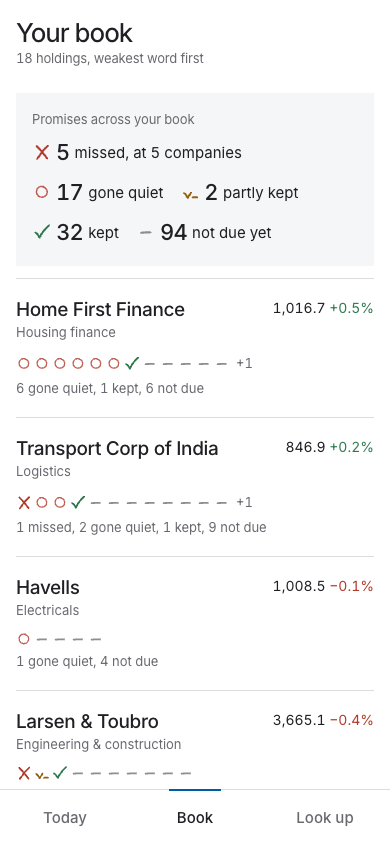
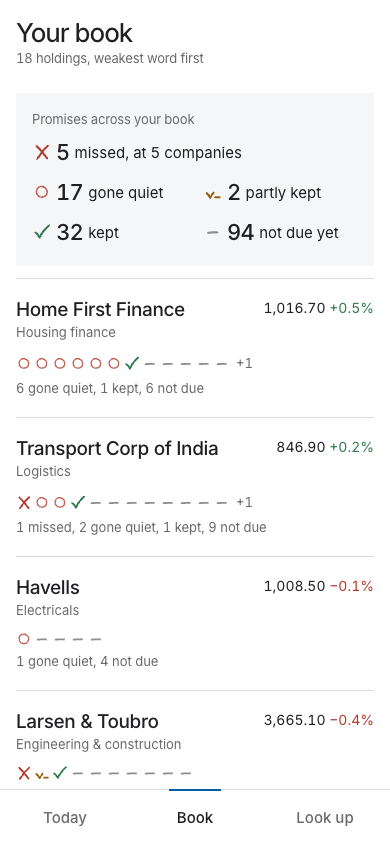
Update README book screenshot

diff --git a/docs/PROGRESS.md b/docs/PROGRESS.md
@@ -90,4 +90,4 @@ Next: before the 29 Oct 11:45 wrap-up, rebuild Today (`python3 pipeline/build_pu
 - Results cards: tapping a promise under 'Against what they said' opens the company at that promise, expanded and centred (link #/c/SYNGENE/11); a soft one opens the soft list. Back returns to Today. Tested at 390x844
 - Offline: a small service worker (web/public/sw.js) keeps the last page, snapshot and company files, so FINN opened from the home screen with no signal shows the last snapshot (its header already says 'Snapshot, filings to ...'). Page and data are network first, so a new deploy or snapshot is never hidden; hashed assets come from cache; /api is never touched. Tested on a local production build: cached, server stopped, #/c/SYNGENE/11 opened at the promise
 - Today, a window with no filings at all: 'Nothing needs you' without 'out of 0 filings', and the line under it says none of your holdings filed anything (it said 'The rest is folded below' above nothing). Tested at 390x844 with filings emptied
-- Book: the tally is missed on its own line, then two even columns (rows were ragged: '17 gone quiet  2 partly kept' over '32 kept  94 not due yet'); a selected count's pill hugs its words. Prices always show two decimals like an exchange quote (1,016.7 beside 913.95). Tested at 390x844
+- Book: the tally is missed on its own line, then two even columns (rows were ragged: '17 gone quiet  2 partly kept' over '32 kept  94 not due yet'); a selected count's pill hugs its words. Prices always show two decimals like an exchange quote (1,016.7 beside 913.95). Tested at 390x844; deployed and checked live 28 Oct ~20:55 IST; README Book shot retaken
